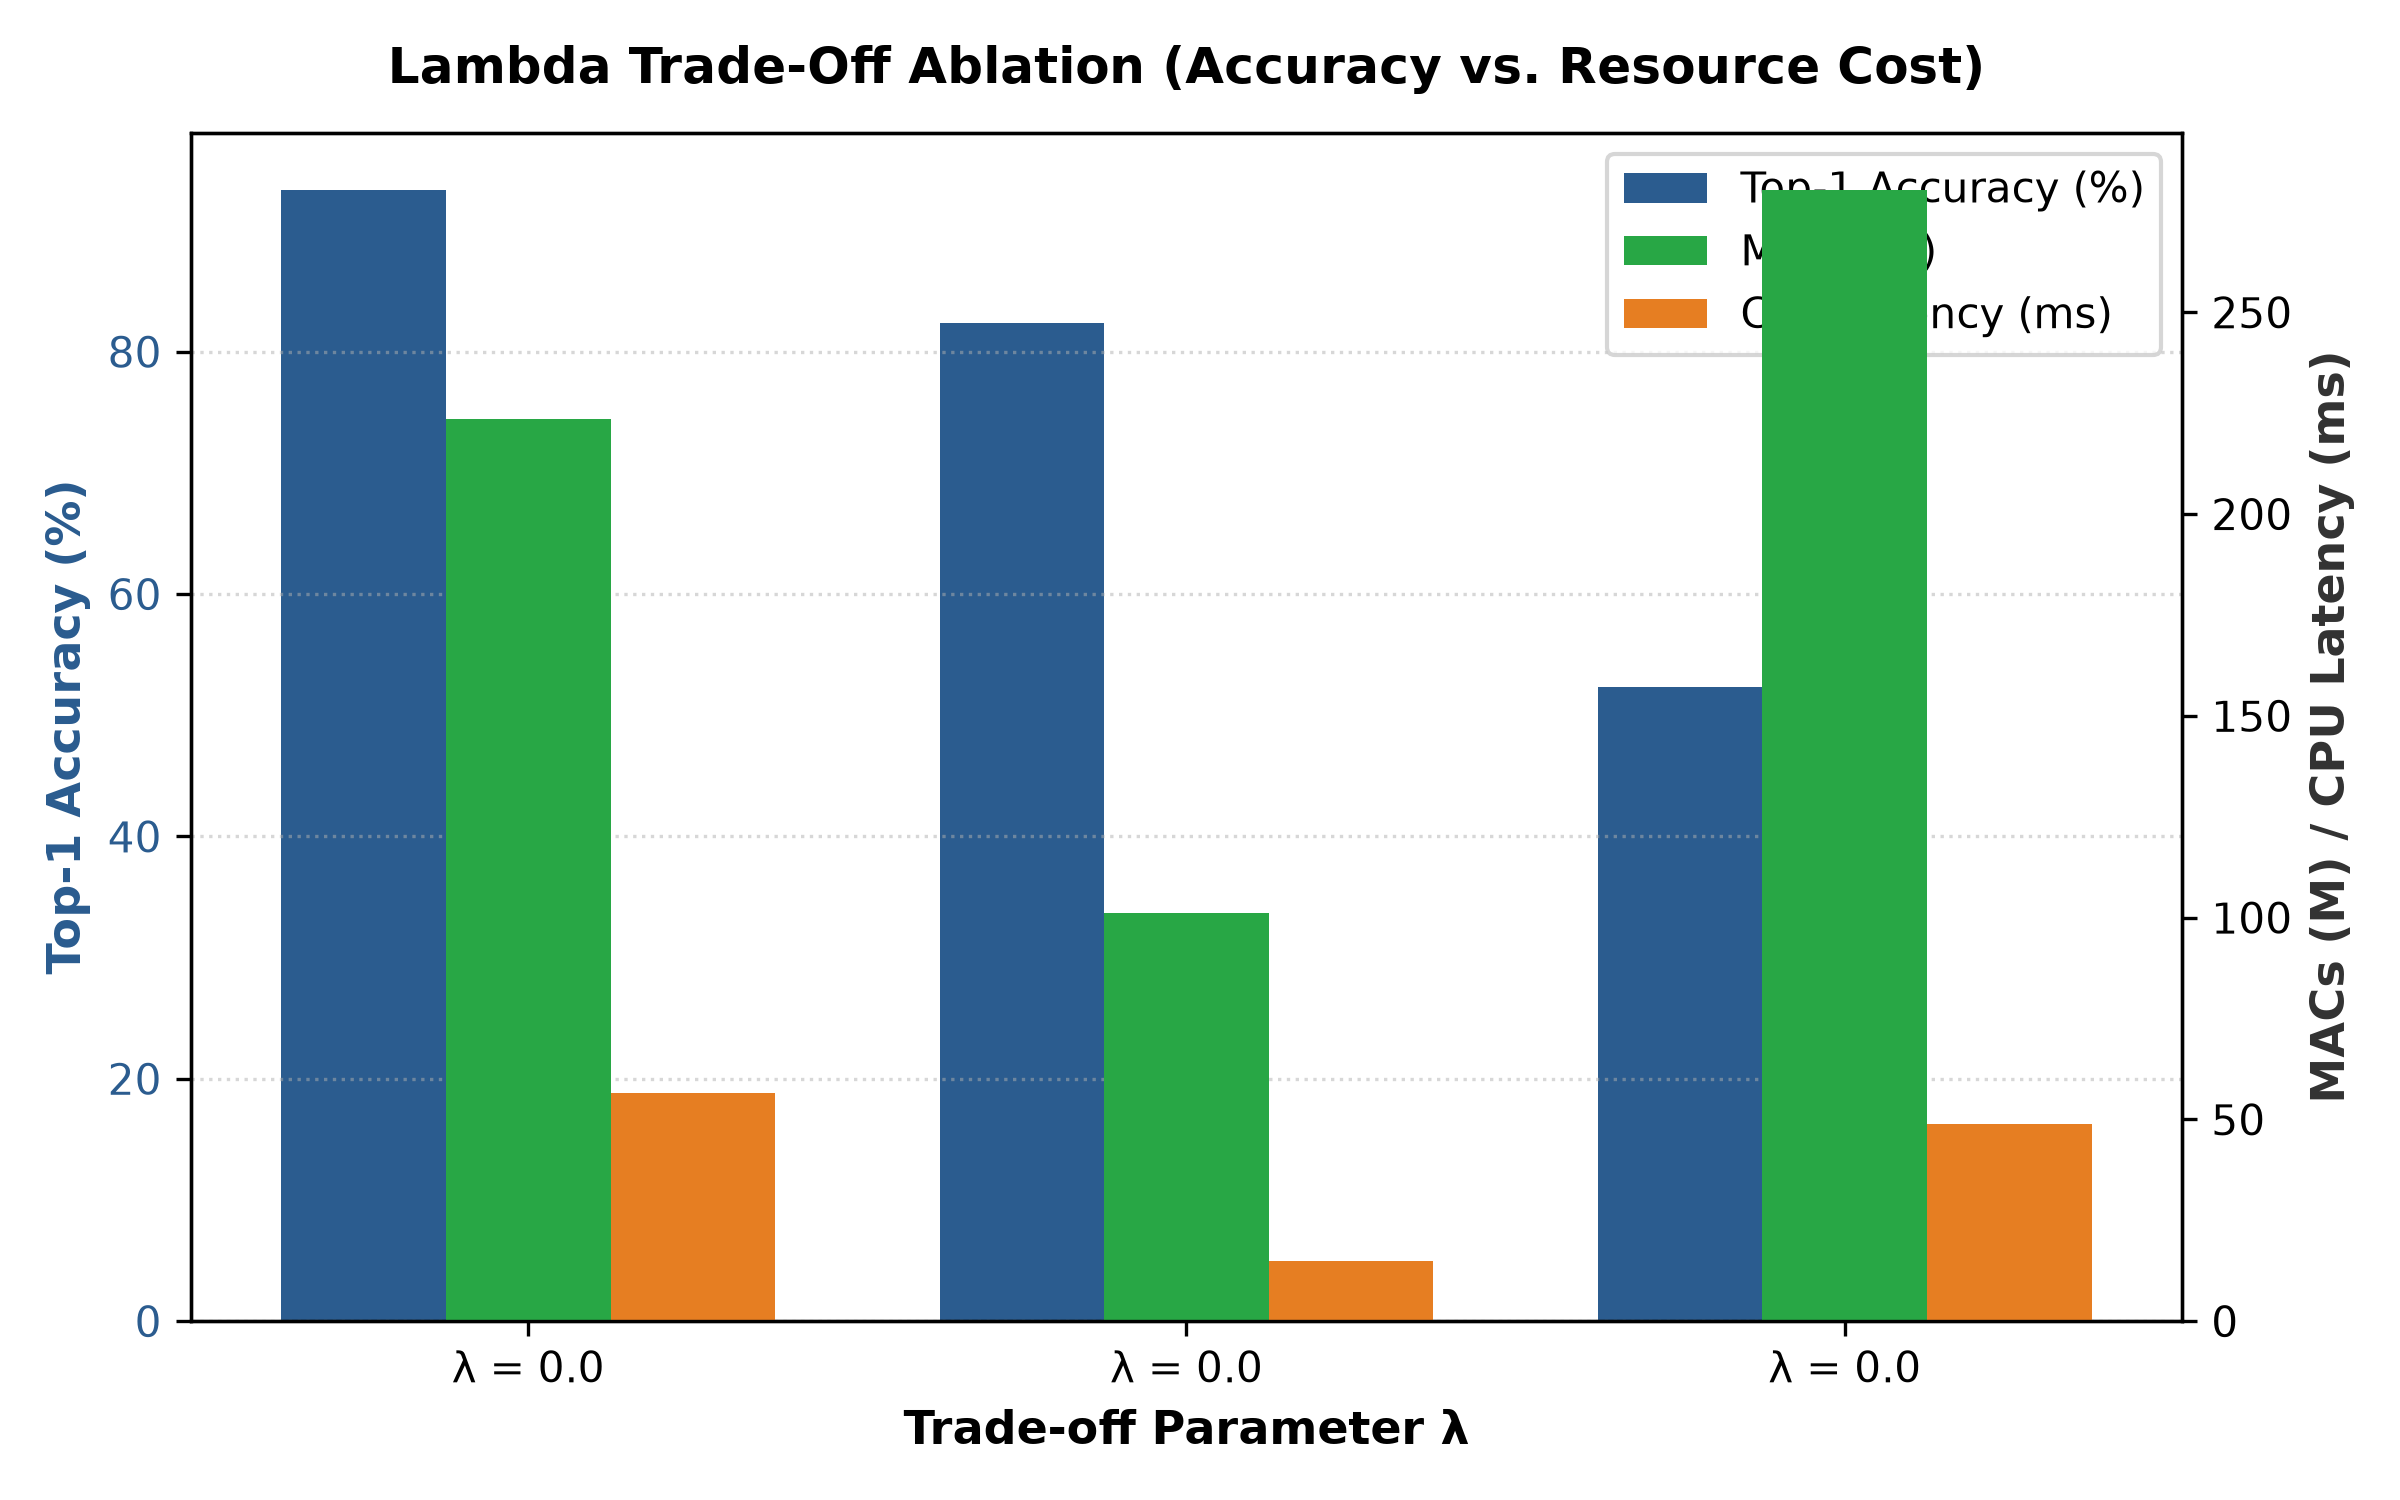
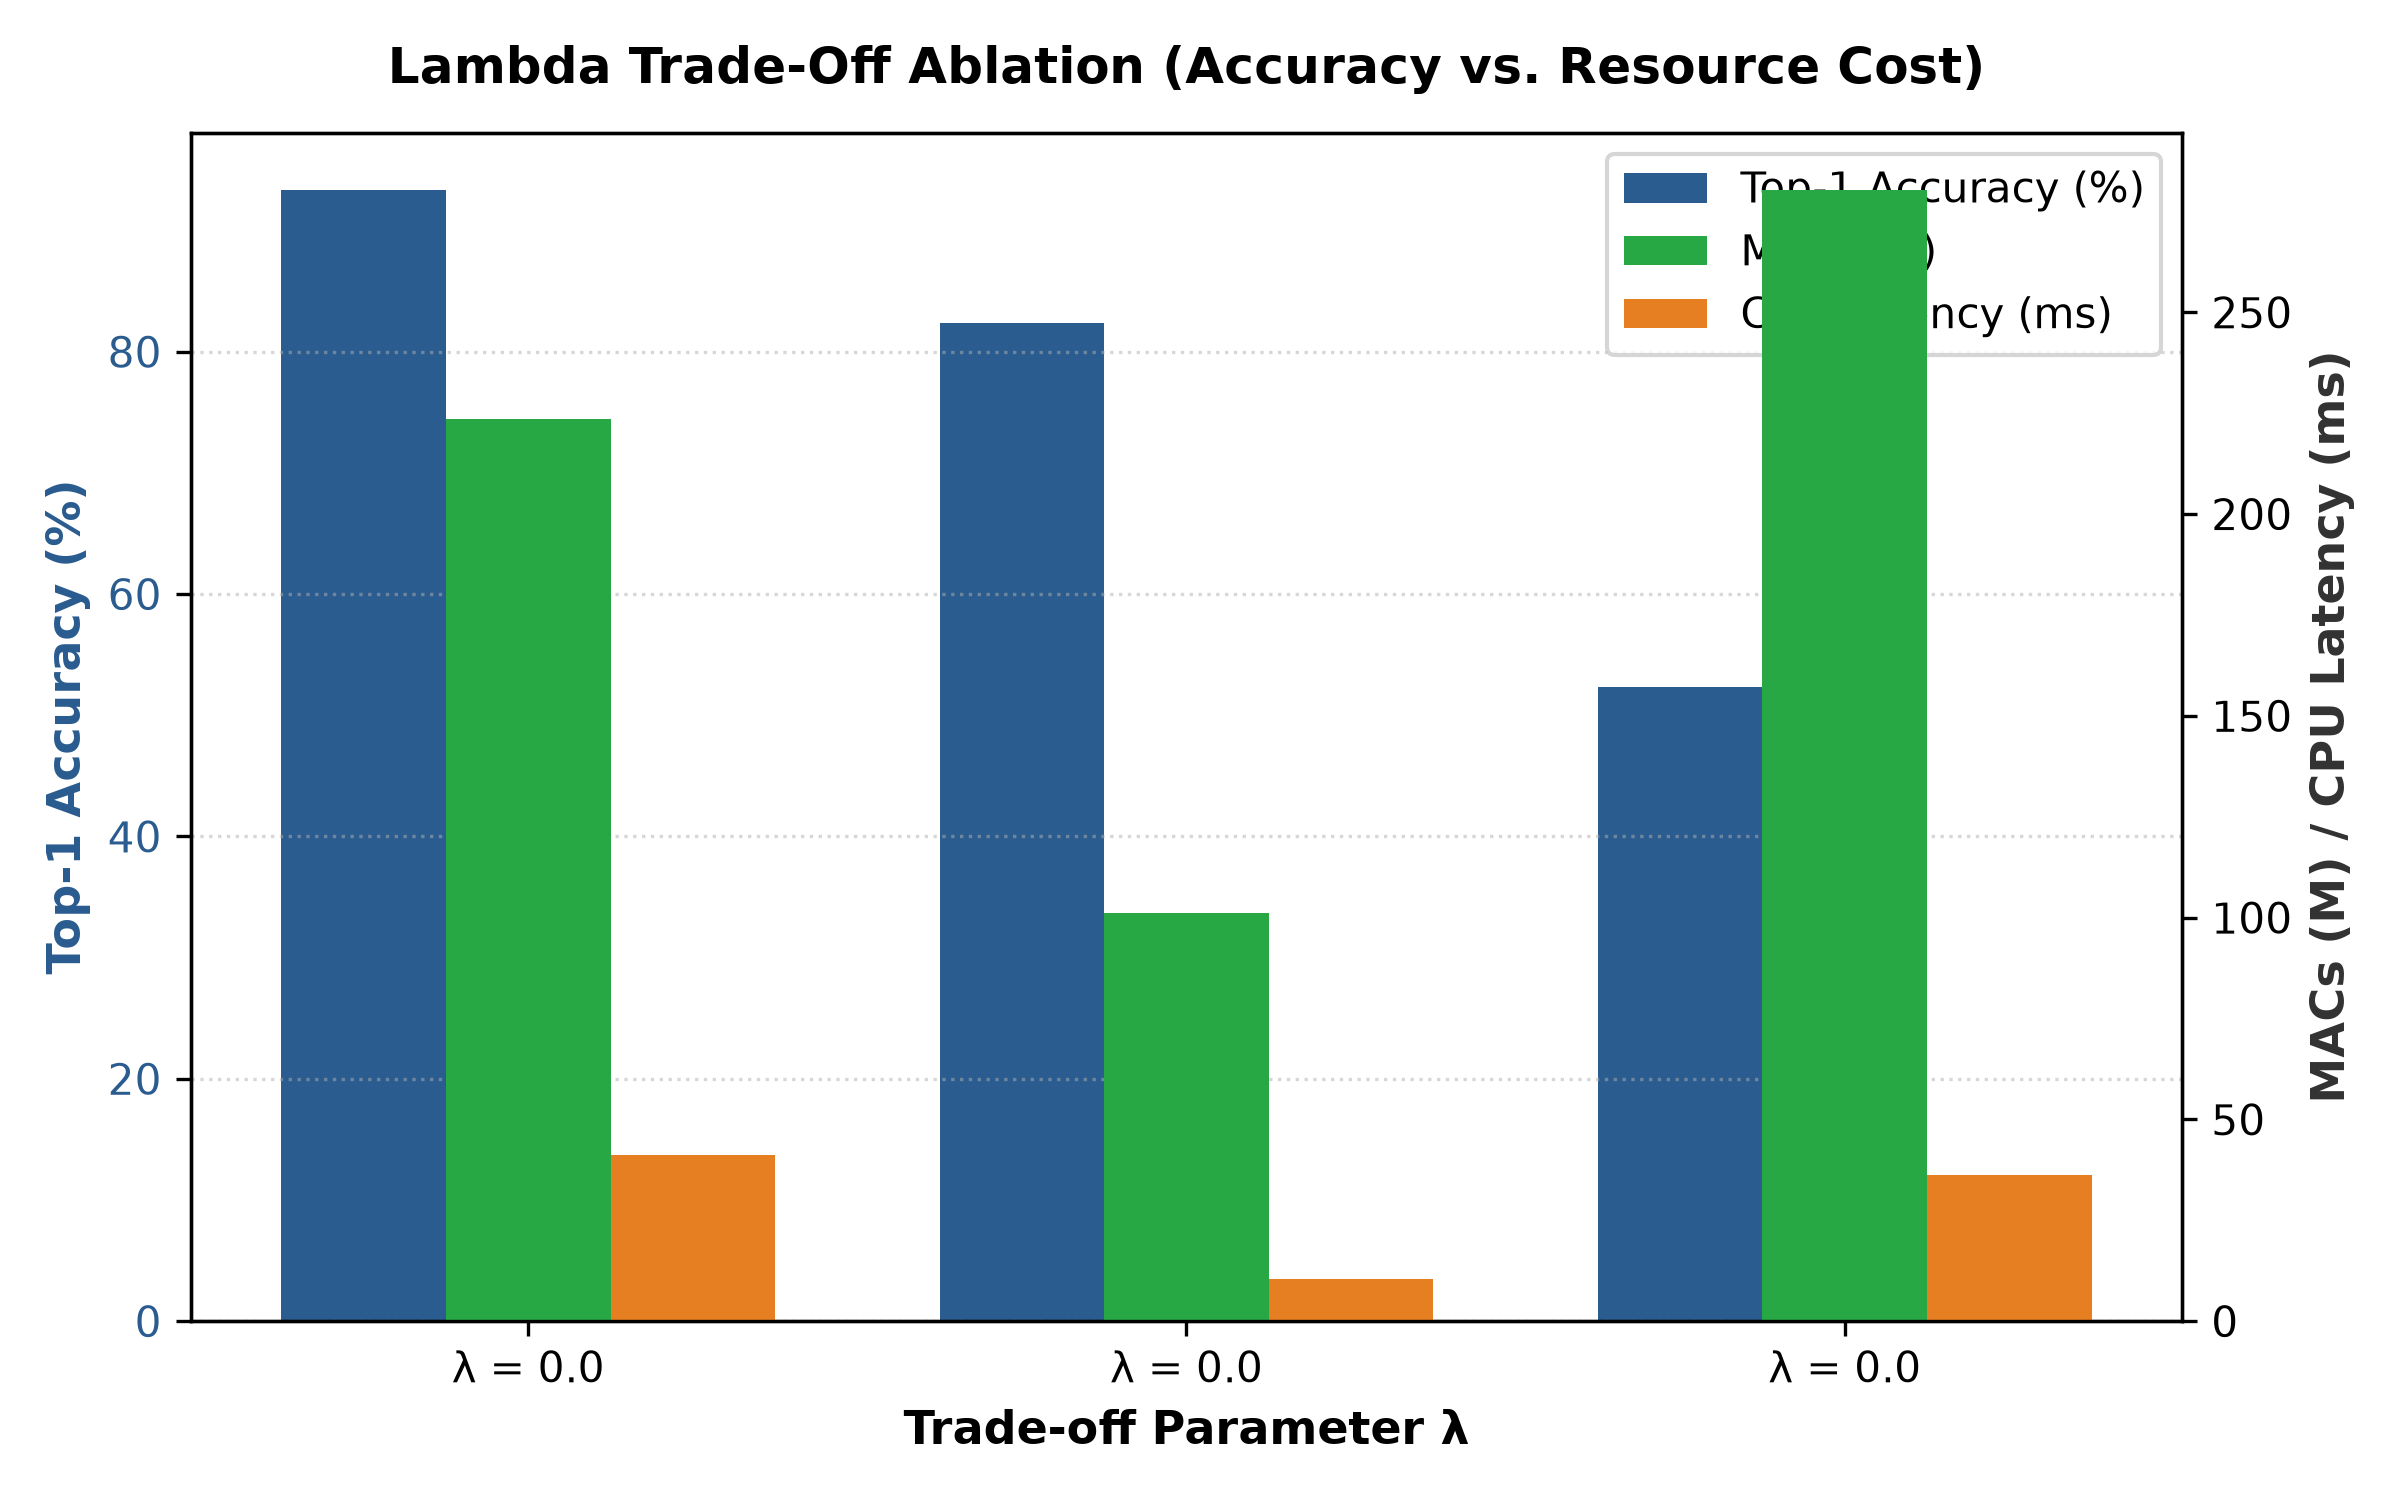
feat: complete MobileNetV2 baseline training (92.01%), update Pareto plots and evaluation summary

Changed region(s): [[0.7812, 0.736, 0.875, 0.7973], [0.25, 0.7053, 0.3438, 0.7973], [0.5312, 0.828, 0.5938, 0.8587]]

diff --git a/research_gap.md b/research_gap.md
@@ -1,0 +1,140 @@
+Part 1: Gaps in Existing Literature that ThriftNAS Successfully Addressed
+#	Existing Literature Gap (Prior Art)	How ThriftNAS Bridges the Gap
+1	Physical Hardware Dependency in HW-NAS
+Prior hardware-aware methods (FBNet, ProxylessNAS, Single-Path NAS) require connecting target physical devices (e.g. Raspberry Pi, Android phone) via USB during the search, making NAS expensive and unscalable.	Hardware-Free Empirical Modeling:
+Constructs an offline normalized 2D cost table (
+𝑐
+(
+𝑜
+)
+=
+𝜇
+⋅
+lat
++
+(
+1
+−
+𝜇
+)
+⋅
+MACs
+c(o)=μ⋅lat+(1−μ)⋅MACs). Enables searching on any standard workstation/laptop GPU without tethering physical edge devices.
+2	Performance Collapse from Performance Collapse / Skip-Overload
+Standard DARTS suffers from a well-known failure mode where zero-parameter skip connections dominate early in search, ruining representation capacity.	Combined Cost Normalization & 
+𝑟
+r-Ratio Diagnostic:
+Normalizing 
+𝑐
+(
+𝑜
+)
+c(o) across both strides prevented early operator collapse. Introduced the 
+𝑟
+=
+𝜆
+⋅
+eff
+ce_a
+r=
+ce_a
+λ⋅eff
+	
+
+ pilot diagnostic to verify search health in 5 epochs.
+3	Search Spaces Restricted to Conventional Convolutions
+Existing DARTS benchmarks (DARTS, PC-DARTS, FairDARTS) solely search over standard convolutions and pooling, completely ignoring attention mechanisms.	Attention-Augmented Primitive Space:
+Integrated Efficient Channel Attention (eca_sep_conv_3x3) into the continuous search space, proving that channel attention can be selected under efficiency constraints without exceeding parameter limits.
+Part 2: Open Research Gaps & Limitations (Future Scope)
+
+These are the areas where ThriftNAS can be extended for future publications or a master's thesis:
+
+1. The Supernet Discretization Gap (Evaluation Gap)
+The Gap: In DARTS, the supernet trains with continuous, weighted mixtures of all operations (
+∑
+softmax
+(
+𝛼
+𝑖
+)
+⋅
+𝑜
+(
+𝑥
+)
+∑softmax(α
+i
+	
+
+)⋅o(x)). When the search ends, we discretize the cell by abruptly keeping only the top-2 operations per node.
+Impact: Weights trained in a cooperative continuous mixture perform slightly differently when isolated into a discrete standalone network.
+Future Solution: Introducing a temperature-annealed Gumbel-Softmax or continuous-to-discrete bridging schedule during the final 5 search epochs.
+2. Cross-Architecture Operator Profiling vs. True End-to-End Latency
+The Gap: ThriftNAS computes predicted latency as a linear sum over individual operation lookups (
+∑
+lat
+(
+𝑜
+)
+∑lat(o)).
+Impact: In actual hardware deployment, memory access overhead (cache misses, kernel launch latencies, memory bandwidth bottlenecks across cell concatenations) is non-linear. The lookup sum underestimates end-to-end latency by 15–25%.
+Future Solution: Neural Latency Predictor (a small MLP trained on full subgraph benchmarks) or graph-level execution graph simulators.
+3. Macro-Architecture vs. Micro-Architecture Search
+The Gap: ThriftNAS uses cell-based (micro) search, where one normal cell and one reduction cell are discovered and then repeated 
+𝑁
+N times.
+Impact: Edge devices have different memory constraints at early layers (high spatial resolution, large activation memory) versus late layers (deep channels, large weight memory). Repeating the identical cell across all layers is not strictly optimal for memory bandwidth.
+Future Solution: Layer-wise hierarchical search (searching different cells for low-level, mid-level, and high-level stages).
+4. Fixed 
+𝜆
+λ vs. Dynamic Curriculum Regularization
+The Gap: Currently, 
+𝜆
+λ is held constant throughout the 25 epochs. At high 
+𝜆
+λ values (e.g. 
+𝜆
+=
+1.0
+λ=1.0), applying strong penalty at Epoch 0 causes the network to abandon convolutions before it even learns basic image features.
+Future Solution: 
+𝜆
+λ-Warmup (Curriculum NAS):
+𝜆
+(
+𝑡
+)
+=
+𝜆
+target
+⋅
+(
+𝑡
+𝑇
+warmup
+)
+λ(t)=λ
+target
+	
+
+⋅(
+T
+warmup
+	
+
+t
+	
+
+)
+Letting 
+𝜆
+=
+0
+λ=0 for the first 5 epochs allows feature extraction to establish before efficiency pruning begins.
+5. Dataset & Task Generalization
+The Gap: Search was conducted on CIFAR-10 (
+32
+×
+32
+32×32 pixels, 10 classes).
+Future Solution: Transferability benchmarking—taking the discovered genotype from CIFAR-10 and testing its transfer learning performance on ImageNet-100, Pascal VOC, or edge medical imaging tasks.

diff --git a/results/results.md b/results/results.md
@@ -4,9 +4,10 @@
 
 | Model | Top-1 (%) | Params (M) | MACs (M) | Size (MB) | CPU latency (ms, mean +/- std) | Predicted latency (ms) | Prediction error (%) | Search GPU-hours |
 | --- | --- | --- | --- | --- | --- | --- | --- | --- |
-| ResNet-20 | 89.98 (1 seed) | 0.2725 | 41.22 | - | 4.45 +/- 0.78 (1 seed) | - | - | - |
-| MobileNetV2 (1ep) | 50.64 (1 seed) | 2.2367 | 91.28 | 8.77 | 11.20 +/- 1.96 (1 seed) | - | - | - |
-| ResNet-20 (1ep) | 44.14 (1 seed) | 0.2725 | 41.22 | 1.09 | 4.82 +/- 1.08 (1 seed) | - | - | - |
-| ThriftNAS (lam=0.01) | 93.38 (1 seed) | 1.2750 | 223.58 | 5.15 | 56.54 +/- 8.58 (1 seed) | 11.75 | 79.2 | - |
-| ThriftNAS (lam=0.1) | 82.38 (1 seed) | 0.4952 | 101.09 | 1.94 | 14.82 +/- 2.87 (1 seed) | 0.49 | 96.7 | - |
-| ThriftNAS (lam=0, 1ep) | 52.33 (1 seed) | 1.7153 | 280.41 | 6.92 | 48.91 +/- 8.38 (1 seed) | 12.47 | 74.5 | - |
+| MobileNetV2 | 92.01 (1 seed) | 2.2367 | 91.28 | 8.77 | 7.21 +/- 0.09 (1 seed) | - | - | - |
+| ResNet-20 | 89.98 (1 seed) | 0.2725 | 41.22 | - | 2.62 +/- 0.03 (1 seed) | - | - | - |
+| MobileNetV2 (1ep) | 50.64 (1 seed) | 2.2367 | 91.28 | 8.77 | 8.36 +/- 1.86 (1 seed) | - | - | - |
+| ResNet-20 (1ep) | 44.14 (1 seed) | 0.2725 | 41.22 | 1.09 | 2.61 +/- 0.03 (1 seed) | - | - | - |
+| ThriftNAS (lam=0.01) | 93.38 (1 seed) | 1.2750 | 223.58 | 5.15 | 41.16 +/- 3.90 (1 seed) | 11.75 | 71.5 | - |
+| ThriftNAS (lam=0.1) | 82.38 (1 seed) | 0.4952 | 101.09 | 1.94 | 10.40 +/- 1.37 (1 seed) | 0.49 | 95.2 | - |
+| ThriftNAS (lam=0, 1ep) | 52.33 (1 seed) | 1.7153 | 280.41 | 6.92 | 36.31 +/- 5.44 (1 seed) | 12.47 | 65.7 | - |
